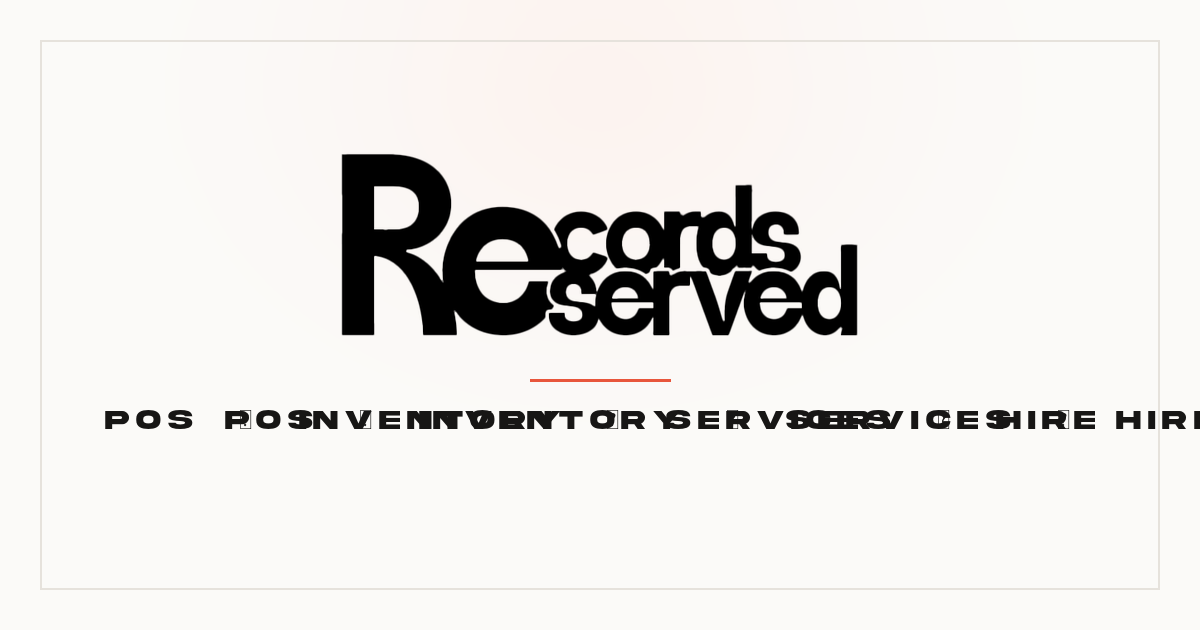
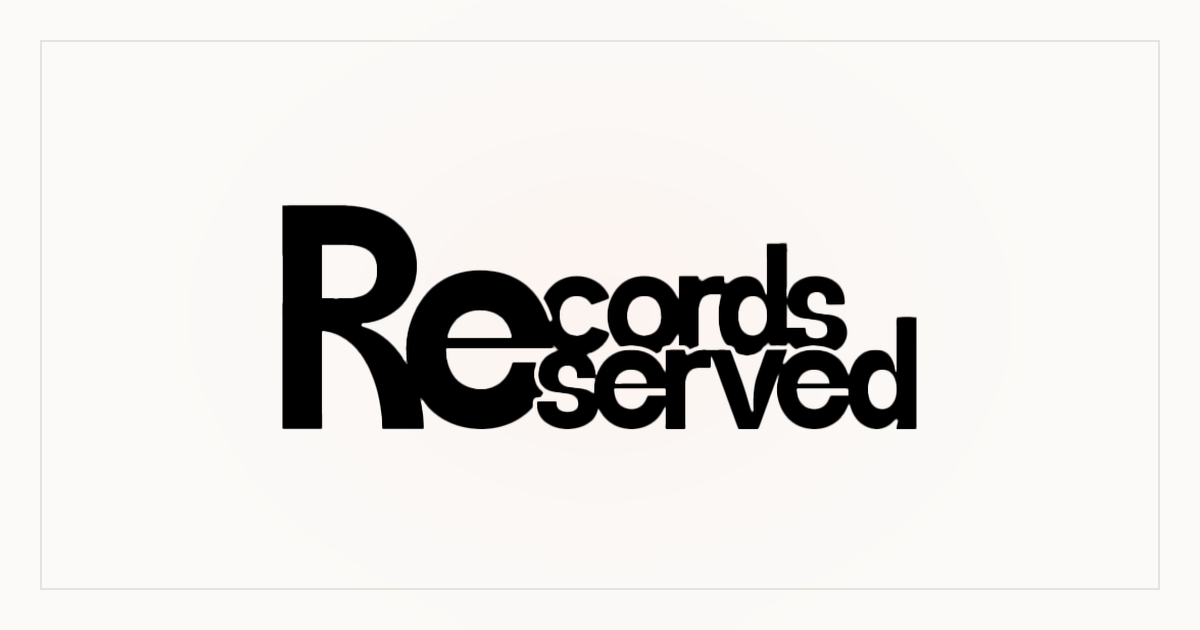
Link preview: clean Records Reserved cover, brand title

Changed region(s): [[0.185, 0.2413, 1.0, 0.6937], [0.0925, 0.6333, 0.1542, 0.6937]]

diff --git a/index.html b/index.html
@@ -5,7 +5,7 @@
   <meta name="viewport" content="width=device-width, initial-scale=1.0">
   <title>Records Reserved — Point of sale, stock, services &amp; hire in one record</title>
   <meta name="description" content="Records Reserved is a point-of-sale and business management platform for shops, workshops, salons and hire fleets. Sell products, book services or hire out equipment — your first 7 days are on us.">
-  <meta property="og:title" content="Records Reserved — Point of sale, stock, services & hire">
+  <meta property="og:title" content="Records Reserved">
   <meta property="og:description" content="One system for the till, the stock room and the books. Built for any trade — 30 starting points and counting. Your first 7 days are on us.">
   <meta property="og:type" content="website">
   <meta property="og:url" content="https://records-reserved.vercel.app/">
@@ -14,7 +14,7 @@
   <meta property="og:image:width" content="1200">
   <meta property="og:image:height" content="630">
   <meta name="twitter:card" content="summary_large_image">
-  <meta name="twitter:title" content="Records Reserved — Point of sale, stock, services & hire">
+  <meta name="twitter:title" content="Records Reserved">
   <meta name="twitter:description" content="One system for the till, the stock room and the books. Built for any trade — 30 starting points and counting. Your first 7 days are on us.">
   <meta name="twitter:image" content="https://records-reserved.vercel.app/assets/img/og-cover.png">
   <meta name="theme-color" content="#1c1b19">

diff --git a/pricing.html b/pricing.html
@@ -5,7 +5,7 @@
   <meta name="viewport" content="width=device-width, initial-scale=1.0">
   <title>Pricing — Records Reserved</title>
   <meta name="description" content="Three plans: Standard K25,000, Pro K50,000 and Enterprise K75,000 a month. Your first 7 days are on us — every feature, no card needed. Compare what each plan unlocks.">
-  <meta property="og:title" content="Pricing — Records Reserved">
+  <meta property="og:title" content="Records Reserved">
   <meta property="og:description" content="Three plans: Standard K25,000, Pro K50,000 and Enterprise K75,000 a month. Your first 7 days are on us — no card needed.">
   <meta property="og:type" content="website">
   <meta property="og:url" content="https://records-reserved.vercel.app/pricing.html">
@@ -14,7 +14,7 @@
   <meta property="og:image:width" content="1200">
   <meta property="og:image:height" content="630">
   <meta name="twitter:card" content="summary_large_image">
-  <meta name="twitter:title" content="Pricing — Records Reserved">
+  <meta name="twitter:title" content="Records Reserved">
   <meta name="twitter:description" content="Three plans: Standard K25,000, Pro K50,000 and Enterprise K75,000 a month. Your first 7 days are on us — no card needed.">
   <meta name="twitter:image" content="https://records-reserved.vercel.app/assets/img/og-cover.png">
   <meta name="theme-color" content="#1c1b19">

diff --git a/industries.html b/industries.html
@@ -5,7 +5,7 @@
   <meta name="viewport" content="width=device-width, initial-scale=1.0">
   <title>Industries — Records Reserved</title>
   <meta name="description" content="Records Reserved is shaped around 30 business types across products, services and rentals — fashion, hardware, grocery, pharmacy, salons, repairs, equipment hire, vehicle hire and more.">
-  <meta property="og:title" content="Industries — Records Reserved">
+  <meta property="og:title" content="Records Reserved">
   <meta property="og:description" content="Shops, workshops, salons and hire fleets. Thirty trades, one platform — shaped at sign-up.">
   <meta property="og:type" content="website">
   <meta property="og:url" content="https://records-reserved.vercel.app/industries.html">
@@ -14,7 +14,7 @@
   <meta property="og:image:width" content="1200">
   <meta property="og:image:height" content="630">
   <meta name="twitter:card" content="summary_large_image">
-  <meta name="twitter:title" content="Industries — Records Reserved">
+  <meta name="twitter:title" content="Records Reserved">
   <meta name="twitter:description" content="Shops, workshops, salons and hire fleets. Thirty trades, one platform — shaped at sign-up.">
   <meta name="twitter:image" content="https://records-reserved.vercel.app/assets/img/og-cover.png">
   <meta name="theme-color" content="#1c1b19">

diff --git a/contact.html b/contact.html
@@ -5,7 +5,7 @@
   <meta name="viewport" content="width=device-width, initial-scale=1.0">
   <title>Contact — Records Reserved</title>
   <meta name="description" content="Talk to the Records Reserved team about plans, onboarding or your trade. Email kohelethdigitalsolutions@gmail.com or call +265 998 814 732 — or open the platform and start your 7 free days now.">
-  <meta property="og:title" content="Contact — Records Reserved">
+  <meta property="og:title" content="Records Reserved">
   <meta property="og:description" content="Sales and support for Records Reserved. Ask about plans, onboarding, or your industry.">
   <meta property="og:type" content="website">
   <meta property="og:url" content="https://records-reserved.vercel.app/contact.html">
@@ -14,7 +14,7 @@
   <meta property="og:image:width" content="1200">
   <meta property="og:image:height" content="630">
   <meta name="twitter:card" content="summary_large_image">
-  <meta name="twitter:title" content="Contact — Records Reserved">
+  <meta name="twitter:title" content="Records Reserved">
   <meta name="twitter:description" content="Sales and support for Records Reserved. Ask about plans, onboarding, or your industry.">
   <meta name="twitter:image" content="https://records-reserved.vercel.app/assets/img/og-cover.png">
   <meta name="theme-color" content="#1c1b19">

diff --git a/features.html b/features.html
@@ -5,7 +5,7 @@
   <meta name="viewport" content="width=device-width, initial-scale=1.0">
   <title>Features — Records Reserved</title>
   <meta name="description" content="Every module in Records Reserved: the POS terminal, catalogue, hire lifecycle, loyalty, vouchers, expenses, reports, staff roles, receipts and database-enforced security.">
-  <meta property="og:title" content="Features — Records Reserved">
+  <meta property="og:title" content="Records Reserved">
   <meta property="og:description" content="The terminal, the catalogue, the hire flow, the reports and the security model — in full.">
   <meta property="og:type" content="website">
   <meta property="og:url" content="https://records-reserved.vercel.app/features.html">
@@ -14,7 +14,7 @@
   <meta property="og:image:width" content="1200">
   <meta property="og:image:height" content="630">
   <meta name="twitter:card" content="summary_large_image">
-  <meta name="twitter:title" content="Features — Records Reserved">
+  <meta name="twitter:title" content="Records Reserved">
   <meta name="twitter:description" content="The terminal, the catalogue, the hire flow, the reports and the security model — in full.">
   <meta name="twitter:image" content="https://records-reserved.vercel.app/assets/img/og-cover.png">
   <meta name="theme-color" content="#1c1b19">
